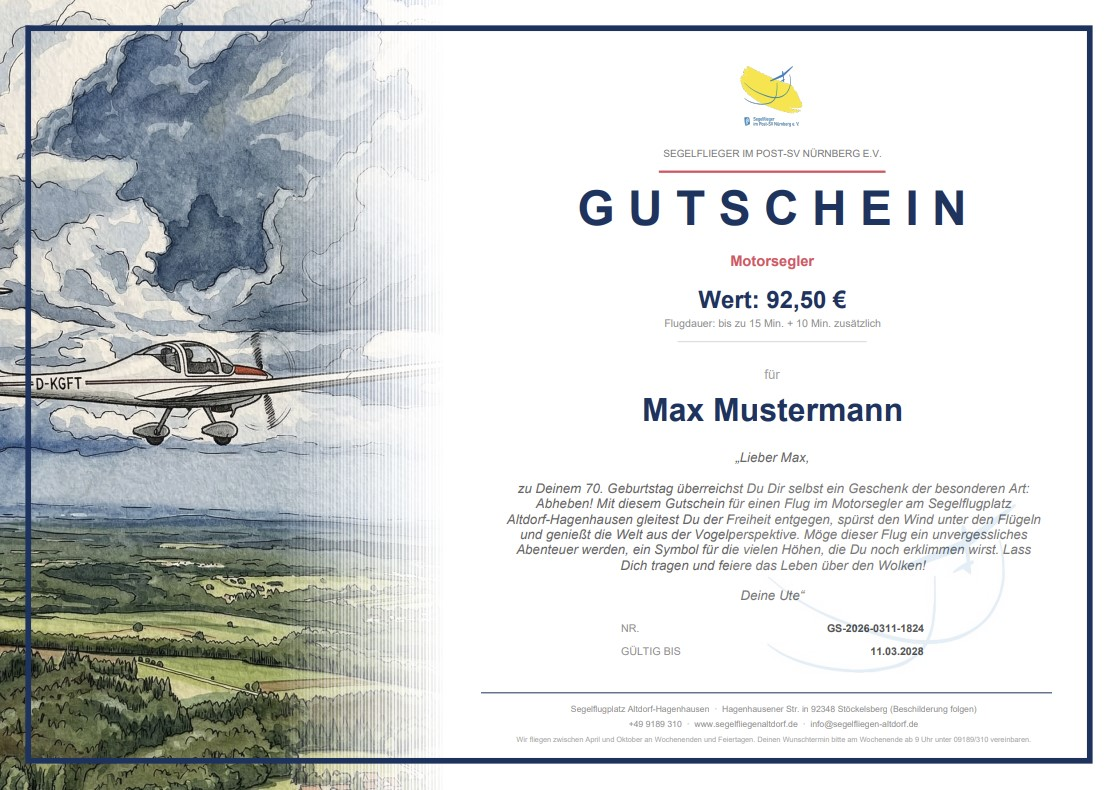
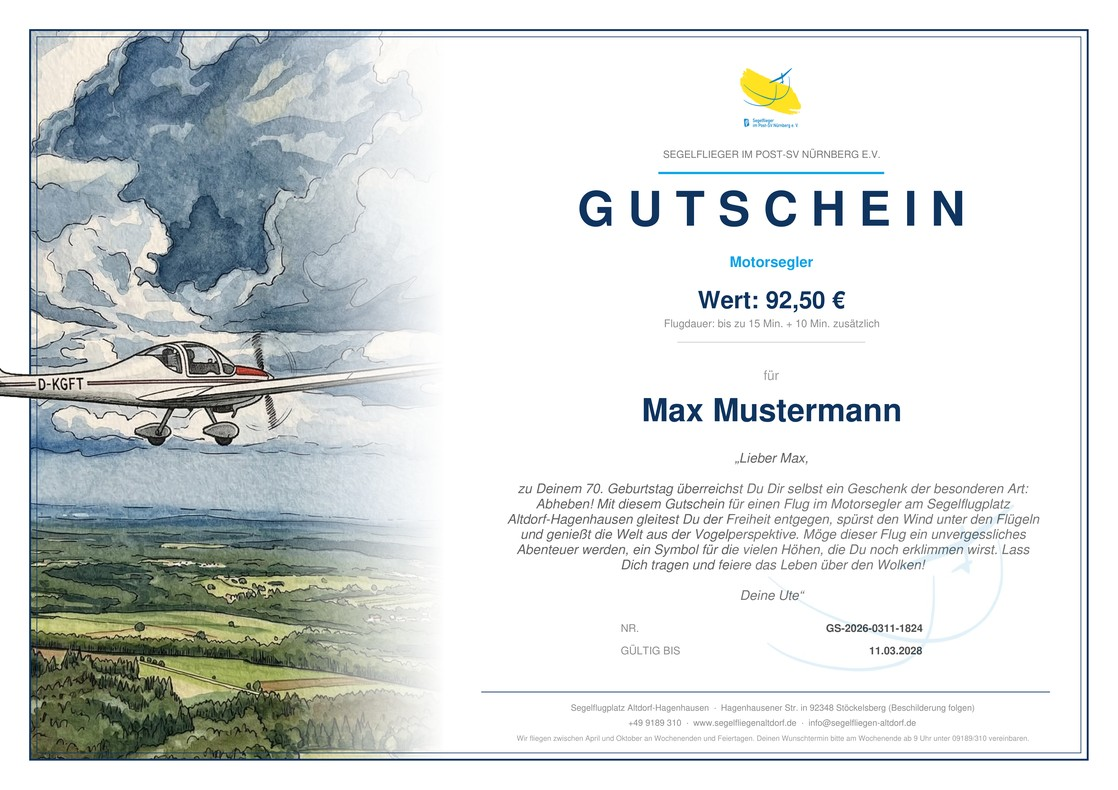
Gutschein-PDF: schlanker Doppelrahmen, Flugzeug ragt aus dem Rahmen
Aquarell endet am Rahmen, ueberstehende Bildteile als Freisteller obenauf.
Weissverlauf als ein Verlaufsbild statt 50 Streifen (keine Laengsstreifen mehr).
Beispielgutschein auf Mitfliegen neu gerendert.

Claude-Session: https://claude.ai/code/session_01X8fPBRjRz1x8dHZwAnkjCX

diff --git a/intern.html b/intern.html
@@ -480,6 +480,32 @@
             '_default': 'images/Gutschein.jpg'
         };
 
+        // "Fliegt aus dem Rahmen": Bildteile (Flügelspitze, Rumpf, Rauchspuren), die über den Rahmen ragen.
+        // Unveränderte Pixel aus dem jeweiligen Aquarell, nur freigestellt; Lage auf der A4-Seite in mm.
+        // Wird ein Aquarell ersetzt, müssen die Freisteller neu erzeugt werden (vorlagen/gutschein-freisteller/make.py).
+        const gutscheinFreisteller = {
+            'images/Gutschein_Kunstflug.jpg': [
+                { src: 'images/Gutschein_Kunstflug_Freisteller_1.png', x: -1.550, y: 89.209, w: 13.670, h: 40.657 },
+                { src: 'images/Gutschein_Kunstflug_Freisteller_2.png', x: -1.550, y: 161.684, w: 13.670, h: 18.266 },
+                { src: 'images/Gutschein_Kunstflug_Freisteller_3.png', x: 0.218, y: 172.054, w: 11.902, h: 31.818 },
+                { src: 'images/Gutschein_Kunstflug_Freisteller_4.png', x: 40.403, y: 197.980, w: 6.364, h: 12.020 }
+            ],
+            'images/Gutschein_Motorflug.jpg': [
+                { src: 'images/Gutschein_Motorflug_Freisteller_1.png', x: -1.505, y: 96.715, w: 13.514, h: 9.871 }
+            ],
+            'images/Gutschein_Segelflug.jpg': [
+                { src: 'images/Gutschein_Segelflug_Freisteller_1.png', x: 0.114, y: 124.515, w: 11.717, h: 4.126 }
+            ]
+            // Gutschein_Flugzeugschlepp.jpg: nichts reicht über den Rahmen
+        };
+        // Gutschein.jpg ist dasselbe Aquarell wie Gutschein_Motorflug.jpg
+        gutscheinFreisteller['images/Gutschein.jpg'] = gutscheinFreisteller['images/Gutschein_Motorflug.jpg'];
+        const gutscheinFreistellerImages = {};
+
+        // Weißverlauf am rechten Rand des Aquarells (1024 × 1 px, weiß mit Transparenz-Rampe).
+        // Eine einzige Bildschicht statt vieler halbtransparenter Streifen, die sichtbare Längsstreifen erzeugt haben.
[1 lines of base64/hex data omitted]
+
         let watermarkBase64 = null;
         let watermarkW = 0;
         let watermarkH = 0;
@@ -515,6 +541,9 @@
                 };
                 img.src = d;
             }).catch(() => {});
+        });
+        [...new Set(Object.values(gutscheinFreisteller).flat().map(p => p.src))].forEach(src => {
+            loadImageAsBase64(src).then(d => { gutscheinFreistellerImages[src] = d; }).catch(() => {});
         });
 
         // HTML-Sonderzeichen escapen (XSS-Schutz f\u00FCr User-Eingaben in HTML-Vorlage)
@@ -753,9 +782,18 @@
             const imgSrc = gutscheinImageMap[flightType]
                 || Object.keys(gutscheinImageMap).filter(function(k) { return k !== '_default' && ftLower.indexOf(k.toLowerCase()) !== -1; }).map(function(k) { return gutscheinImageMap[k]; })[0]
                 || gutscheinImageMap['_default'];
-            const bgData = gutscheinImages[imgSrc] || gutscheinImages[gutscheinImageMap['_default']];
+            const bgSrc = gutscheinImages[imgSrc] ? imgSrc : gutscheinImageMap['_default'];
+            const bgData = gutscheinImages[bgSrc];
+            const rahmenLw = 0.5;
+            const rahmenInnen = margin + rahmenLw / 2;
             if (bgData) {
+                // Aquarell nur innerhalb des Rahmens, außen bleibt ein weißer Rand
+                doc.saveGraphicsState();
                 try {
+                    doc.rect(rahmenInnen, rahmenInnen, w - rahmenInnen * 2, h - rahmenInnen * 2, null);
+                    doc.clip();
+                    doc.discardPath();
+
                     const aspectRatio = bgData.w / bgData.h;
                     let drawW = h * aspectRatio;
                     let drawH = h;
@@ -769,23 +807,29 @@
 
                     const fadeStart = imgAreaW - 40;
                     const fadeEnd = imgAreaW + 5;
-                    const steps = 50;
-                    for (let i = 0; i < steps; i++) {
-                        const x = fadeStart + (i / steps) * (fadeEnd - fadeStart);
-                        const opacity = i / steps;
-                        doc.setGState(new doc.GState({ opacity: opacity }));
-                        doc.setFillColor(255, 255, 255);
-                        doc.rect(x, 0, (fadeEnd - fadeStart) / steps + 0.3, h, 'F');
-                    }
-                    doc.setGState(new doc.GState({ opacity: 1 }));
+                    doc.addImage(gutscheinVerlauf, 'PNG', fadeStart, 0, fadeEnd - fadeStart, h, 'gutscheinVerlauf');
                     doc.setFillColor(255, 255, 255);
-                    doc.rect(imgAreaW + 5, 0, w - imgAreaW - 5, h, 'F');
+                    doc.rect(fadeEnd, 0, w - fadeEnd, h, 'F');
                 } catch(e) {}
+                doc.restoreGraphicsState();
             }
 
+            // Schlanker Doppelrahmen: 0,5 mm Navy, feine Haarlinie 1,8 mm weiter innen
             doc.setDrawColor(15, 52, 96);
-            doc.setLineWidth(1.5);
+            doc.setLineWidth(rahmenLw);
             doc.rect(margin, margin, w - margin * 2, h - margin * 2);
+            doc.setLineWidth(0.18);
+            doc.rect(margin + 1.8, margin + 1.8, w - (margin + 1.8) * 2, h - (margin + 1.8) * 2);
+
+            // Was im Aquarell über den Rahmen ragt, obenauf legen
+            if (bgData) {
+                (gutscheinFreisteller[bgSrc] || []).forEach(function(p) {
+                    if (!gutscheinFreistellerImages[p.src]) return;
+                    try {
+                        doc.addImage(gutscheinFreistellerImages[p.src], 'PNG', p.x, p.y, p.w, p.h, p.src, 'FAST');
+                    } catch(e) {}
+                });
+            }
 
             const textCenterX = imgAreaW + (w - imgAreaW) / 2;
             const textLeft = imgAreaW + 15;

diff --git a/CLAUDE.md b/CLAUDE.md
@@ -423,6 +423,7 @@ The panel is organised in **five tabs**:
 - The "Übernehmen" button and click-to-load only appear **after** the order is marked as paid.
 - **Payment Reminder**: Unpaid orders show a "Reminder" button that sends a reminder email to the customer via Cloud Function `sendAdminEmail`. The reminder dynamically adapts to the payment method (bank transfer vs. pickup).
 - **PDF generation** via jsPDF (self-hosted in `lib/jspdf/`). PDF includes: flight type, value, flight duration (calculated from base + extra time), recipient name, greeting text, voucher number, validity date, club address, and flight time info.
+- **PDF frame ("fliegt aus dem Rahmen")**: slim double frame (0.5 mm navy + 0.18 mm hairline 1.8 mm inside). The watercolour is clipped to the inside of the frame (white margin outside) and fades to white via one small gradient PNG (`gutscheinVerlauf`, inline base64 — replaces the old 50 semi-transparent strips that showed vertical banding). Parts of the aircraft/smoke trails that reach past the frame are laid on top as pre-cut PNGs (`images/Gutschein_<Bild>_Freisteller_<n>.png`, positions in mm in `gutscheinFreisteller`). If a watercolour in `images/` is replaced, regenerate them with `vorlagen/gutschein-freisteller/make.py` (local only, not in the repo) and paste the printed lines into `gutscheinFreisteller`. `images/Gutscheinbeispiel.jpg/.webp` (lightbox "Beispielgutschein" on `mitfliegen.html`) is a 1118×790 render of the real `generatePDF()` and must be re-rendered when the voucher design changes.
 - **"Wert im Gutschein anzeigen" checkbox**: Checked by default on `mitfliegen.html`. When unchecked, PDF shows only flight duration instead of value. For "Kunstflug", flight duration is never shown (pauschal). Stored as `wertAnzeigen` in `voucherOrders` and `showValue` in `vouchers`.
 - **PDF reprint**: Open and redeemed vouchers show a "PDF" button that directly regenerates the PDF without saving a duplicate to Firestore (checks voucher number against `cachedVouchers`). Voucher documents store `zusatzzeit` and `showValue` for accurate reprints.
 - **Gutschein-Versand** — two options: "PDF herunterladen" (manual send) and "PDF per E-Mail senden" (automatic via Firebase Cloud Function over Strato-SMTP, sends HTML email with PDF attachment). Cloud Function: `sendVoucherEmail` (europe-west1), callable, admin-only, uses Secrets `SMTP_USER` / `SMTP_PASS`.
